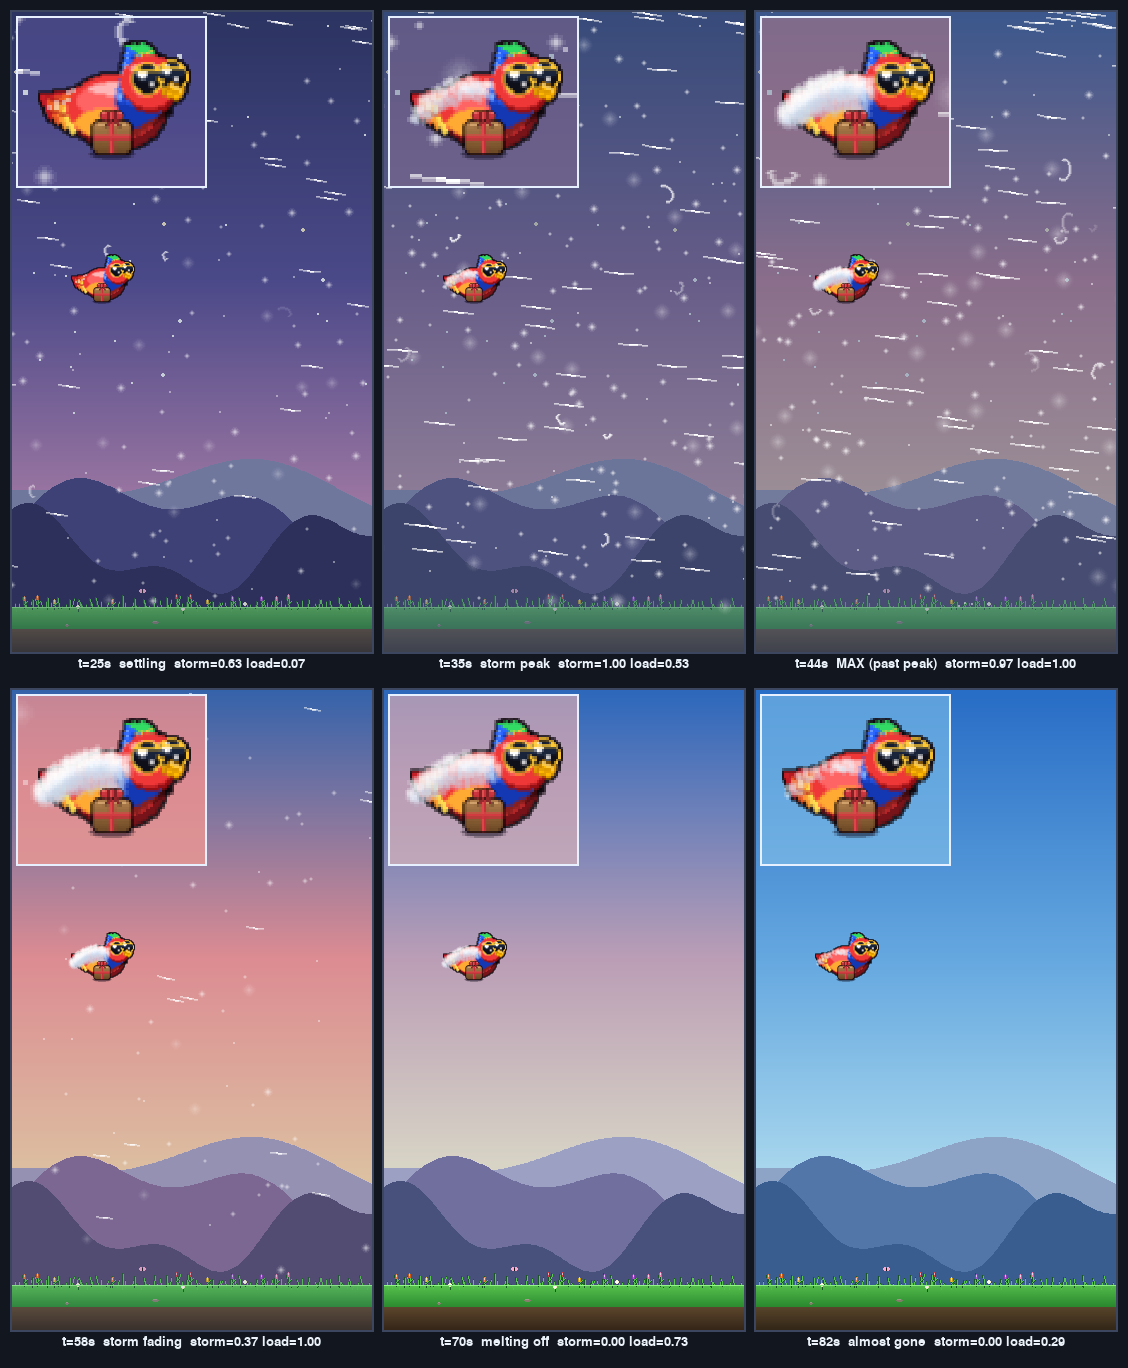
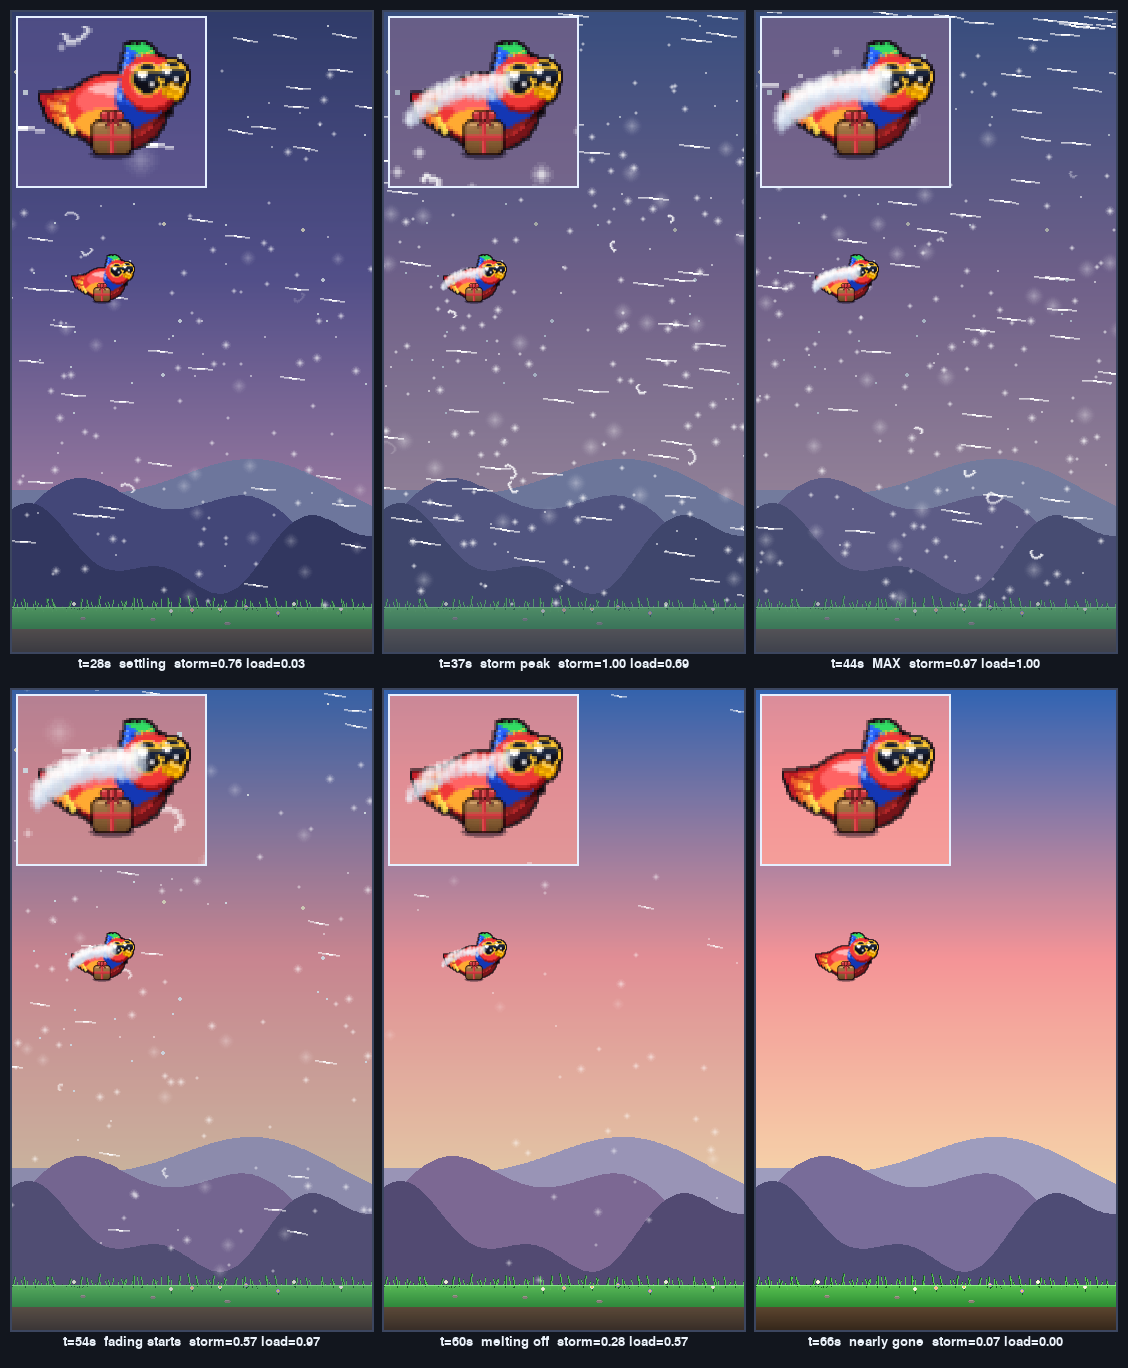
snow on back: full upper-surface coverage + sooner fade-off
Two fixes from feedback (snow looked unreal — tail + upper body
bare; and it lingered too long).

COVERAGE (game/entities.py _build_snow_pool)
* Extended the snow line from tail tip across the back up to the
  shoulder/upper-back behind the head, and flattened along_w so
  snow blankets the WHOLE windward upper surface (tail + back +
  shoulder) fairly evenly instead of a single mid-back blob.
* Made it a top-HUGGING layer: shallower dy band (full to ~2.5px,
  gone by ~8px) so the snow sits on top like a real cap rather
  than bulging down the side. More candidates (M 150→210) for
  even coverage over the larger area.

FADE-OFF SOONER (game/config.py + world.py)
* Replaced the constant melt with a storm-dependent one:
    gain = ACCUM*storm;  melt = MELT_BASE + MELT_FADE*(1-storm)
  Melt is tiny while it's snowing hard (snow piles up) and ramps
  up sharply as the storm fades — so the drift starts shedding
  sooner and clears quickly. ACCUM 0.10→0.12, MELT_BASE 0.025,
  MELT_FADE 0.16. Result: peak ~t40 (just after the storm peak),
  gone by ~t64 — right as the storm ends, vs lingering to ~t90.

Verified tilt-tracking still holds at dive/level/flap. Buildup
sheet + tilt strip regenerated. Tests: 22/22.

diff --git a/game/entities.py b/game/entities.py
@@ -239,13 +239,14 @@ def _get_grow_body_sprite() -> "tuple[pygame.Surface, int, int]":
 # settle — there is NO fixed silhouette; the drift shape emerges
 # from the accumulated flakes.
 _SNOW_LINE_KEY = (
-    (-31.0,  7.0),   # tail tip
-    (-26.0,  1.0),   # tail upper edge
-    (-20.0, -3.0),   # rump
-    (-13.0, -6.6),   # back start
-    (-6.0,  -7.8),   # back hump crest
-    (0.0,   -7.4),   # back toward neck
-    (6.0,   -5.6),   # neck base
+    (-30.0,  5.0),   # tail tip
+    (-25.0,  0.0),   # tail upper edge
+    (-19.0, -3.5),   # rump
+    (-12.0, -6.5),   # back start
+    (-5.0,  -8.0),   # back hump crest
+    (2.0,   -8.0),   # back toward shoulder
+    (8.0,   -8.5),   # shoulder
+    (13.0, -10.5),   # upper back, just behind the head
 )
 
 _SNOW_DISC_CACHE: dict = {}
@@ -299,18 +300,22 @@ def _build_snow_pool():
         return key[-1][1]
 
     def along_w(x):
-        if x < -32.0:
+        # Snow blankets the WHOLE upper surface fairly evenly — only
+        # the very tail tip and the approach to the head taper off,
+        # so the tail + upper back/shoulder both get covered (not a
+        # single mid-back blob).
+        if x < -31.0 or x > 14.0:
             return 0.0
         w = 1.0
-        if x > -2.0:                       # taper toward the front/neck
-            w *= max(0.12, 1.0 - (x + 2.0) / 12.0)
-        if x < -24.0:                      # taper at the thin tail tip
-            w *= max(0.22, 1.0 - (-24.0 - x) / 9.0)
+        if x > 9.0:                        # ease off as we near the head
+            w *= max(0.30, 1.0 - (x - 9.0) / 7.0)
+        if x < -27.0:                      # ease off at the thin tail tip
+            w *= max(0.40, 1.0 - (-27.0 - x) / 5.0)
         return w
 
-    M = 150
-    bx0, bx1 = -31.0, 7.0
-    by0, by1 = -15.0, 9.0                  # extend up for a fuller crest
+    M = 210
+    bx0, bx1 = -31.0, 15.0
+    by0, by1 = -15.0, 12.0
     A1, A2 = 0.7548776662, 0.5698402910    # R2 low-discrepancy seq
     pool = []
     for i in range(M):
@@ -319,14 +324,14 @@ def _build_snow_pool():
         x = bx0 + u * (bx1 - bx0)
         y = by0 + v * (by1 - by0)
         dy = y - line_y(x)                 # distance below the snow line
-        if dy < -4.0:                      # too high above the back → off body
+        if dy < -3.5:                      # too high above the back → off body
             continue
         if dy < 0.0:                       # crest ABOVE the line: soft taper
-            wy = max(0.0, 1.0 + dy / 4.0)  # ~0 at the very top → 1 at the line
-        elif dy <= 3.0:
+            wy = max(0.0, 1.0 + dy / 3.5)  # ~0 at the very top → 1 at the line
+        elif dy <= 2.5:
             wy = 1.0
-        else:                              # taper deeper into the body
-            wy = max(0.0, 1.0 - (dy - 3.0) / 9.0)
+        else:                              # shallow layer — snow hugs the TOP,
+            wy = max(0.0, 1.0 - (dy - 2.5) / 5.5)   # not bulging down the side
         wind = 1.0 + max(0.0, -x) / 55.0   # slight windward (rear) bias
         noise = 0.78 + 0.22 * ((math.sin(i * 12.9898) * 43758.5453) % 1.0)
         w = along_w(x) * wy * wind * noise

diff --git a/game/config.py b/game/config.py
@@ -281,17 +281,20 @@ WEATHER_WIND_SCROLL_FACTOR = 0.30
 
 # Snow accumulating on Pip's back during the snow squall. The
 # tailwind blows snow onto him from behind, so a drift builds up
-# on his dorsal/back surface. Modelled as an integrator on
-# bird.snow_load (0..1):
-#   load += (ACCUM * storm_intensity - MELT) * dt   (clamped 0..1)
-# ACCUM only beats MELT once storm > MELT/ACCUM (~0.37), so snow
-# starts settling partway into the build, KEEPS growing through
-# the peak and a little past it (while storm stays above that
-# threshold on the way down), then melts/blows off as the storm
-# passes. Tuned so the load peaks a few seconds AFTER the storm's
-# own peak and is fully gone by the time the event ends.
-WEATHER_SNOW_ACCUM_RATE = 0.10
-WEATHER_SNOW_MELT_RATE  = 0.037
+# over his rear. Modelled as an integrator on bird.snow_load
+# (0..1):
+#   gain = ACCUM * storm_intensity
+#   melt = MELT_BASE + MELT_FADE * (1 - storm_intensity)
+#   load += (gain - melt) * dt          (clamped 0..1)
+# The melt ACCELERATES as the storm fades: barely any while it's
+# snowing hard (so snow piles up), ramping up sharply once the
+# storm passes — so the snow STARTS coming off sooner and clears
+# quickly instead of lingering. Tuned so load peaks just after the
+# storm's own peak, begins fading ~mid-decline, and is gone close
+# to when the storm ends.
+WEATHER_SNOW_ACCUM_RATE = 0.12
+WEATHER_SNOW_MELT_BASE  = 0.025   # melt while snowing hard
+WEATHER_SNOW_MELT_FADE  = 0.16    # extra melt as the storm fades out
 
 # ── Onboarding warmup ramp ──────────────────────────────────────────────────
 # Keyed on pillars_passed: every pipe scored nudges the gap, scroll, and

diff --git a/game/world.py b/game/world.py
@@ -36,7 +36,7 @@ from game.config import (
     WEATHER_HEAVY_THRESHOLD, WEATHER_COIN_SHAKE_AMP,
     WEATHER_PIP_SHIVER_AMP, WEATHER_FLAP_DAMPEN_MAX,
     WEATHER_WIND_LEAN_AMP, WEATHER_WIND_SCROLL_FACTOR,
-    WEATHER_SNOW_ACCUM_RATE, WEATHER_SNOW_MELT_RATE,
+    WEATHER_SNOW_ACCUM_RATE, WEATHER_SNOW_MELT_BASE, WEATHER_SNOW_MELT_FADE,
     GENIE_OFFER_COUNT, GENIE_OFFER_X_START,
     GENIE_OFFER_X_STEP, GENIE_OFFER_Y_SLOTS,
 )
@@ -1575,14 +1575,15 @@ class World:
         else:
             self.bird.wind_lean = 0.0
 
-        # Snow accumulating on Pip's back — integrator that lags the
-        # storm: gain (∝ storm) only beats the constant melt once
-        # the squall is meaningfully strong, so the drift settles
-        # partway into the build, KEEPS growing through + a little
-        # past the peak, then melts off as the storm passes.
+        # Snow accumulating on Pip's back. Gain ∝ storm; melt
+        # ACCELERATES as the storm fades (barely any while snowing
+        # hard, ramping up once it passes) so the drift piles up
+        # through the peak then STARTS shedding sooner and clears
+        # quickly rather than lingering after the squall.
         gain = WEATHER_SNOW_ACCUM_RATE * wi
+        melt = WEATHER_SNOW_MELT_BASE + WEATHER_SNOW_MELT_FADE * (1.0 - wi)
         self.bird.snow_load = max(0.0, min(1.0,
-            self.bird.snow_load + (gain - WEATHER_SNOW_MELT_RATE) * dt))
+            self.bird.snow_load + (gain - melt) * dt))
 
         # Storm jolt: only at near-peak intensity, after the lockout, and
         # only if Pip actually has coins to lose. Random fire on a small

diff --git a/tools/render_snow_buildup.py b/tools/render_snow_buildup.py
@@ -24,7 +24,8 @@ import pygame
 from game.config import (
     W, H, GROUND_Y, BIRD_X,
     WEATHER_SNOW_ACCUM_RATE as ACCUM,
-    WEATHER_SNOW_MELT_RATE as MELT,
+    WEATHER_SNOW_MELT_BASE as MELT_BASE,
+    WEATHER_SNOW_MELT_FADE as MELT_FADE,
 )
 from game.entities import Bird
 from game.weather import Weather, storm_intensity
@@ -45,12 +46,12 @@ BIRD_Y = H * 0.42
 
 # Play-times (s, from phase 0.73) telling the accumulation story.
 CAPTURES = [
-    (25, "t=25s  settling"),
-    (35, "t=35s  storm peak"),
-    (44, "t=44s  MAX (past peak)"),
-    (58, "t=58s  storm fading"),
-    (70, "t=70s  melting off"),
-    (82, "t=82s  almost gone"),
+    (28, "t=28s  settling"),
+    (37, "t=37s  storm peak"),
+    (44, "t=44s  MAX"),
+    (54, "t=54s  fading starts"),
+    (60, "t=60s  melting off"),
+    (66, "t=66s  nearly gone"),
 ]
 
 
@@ -85,7 +86,8 @@ def main():
         phase = ((START_PHASE * CY + t) / CY) % 1.0
         weather.update(DT, phase)
         st = storm_intensity(phase)
-        load = max(0.0, min(1.0, load + (ACCUM * st - MELT) * DT))
+        melt = MELT_BASE + MELT_FADE * (1.0 - st)
+        load = max(0.0, min(1.0, load + (ACCUM * st - melt) * DT))
         sec = round(t)
         if sec in want and sec not in shots:
             scene = render_scene(phase, load, weather)
